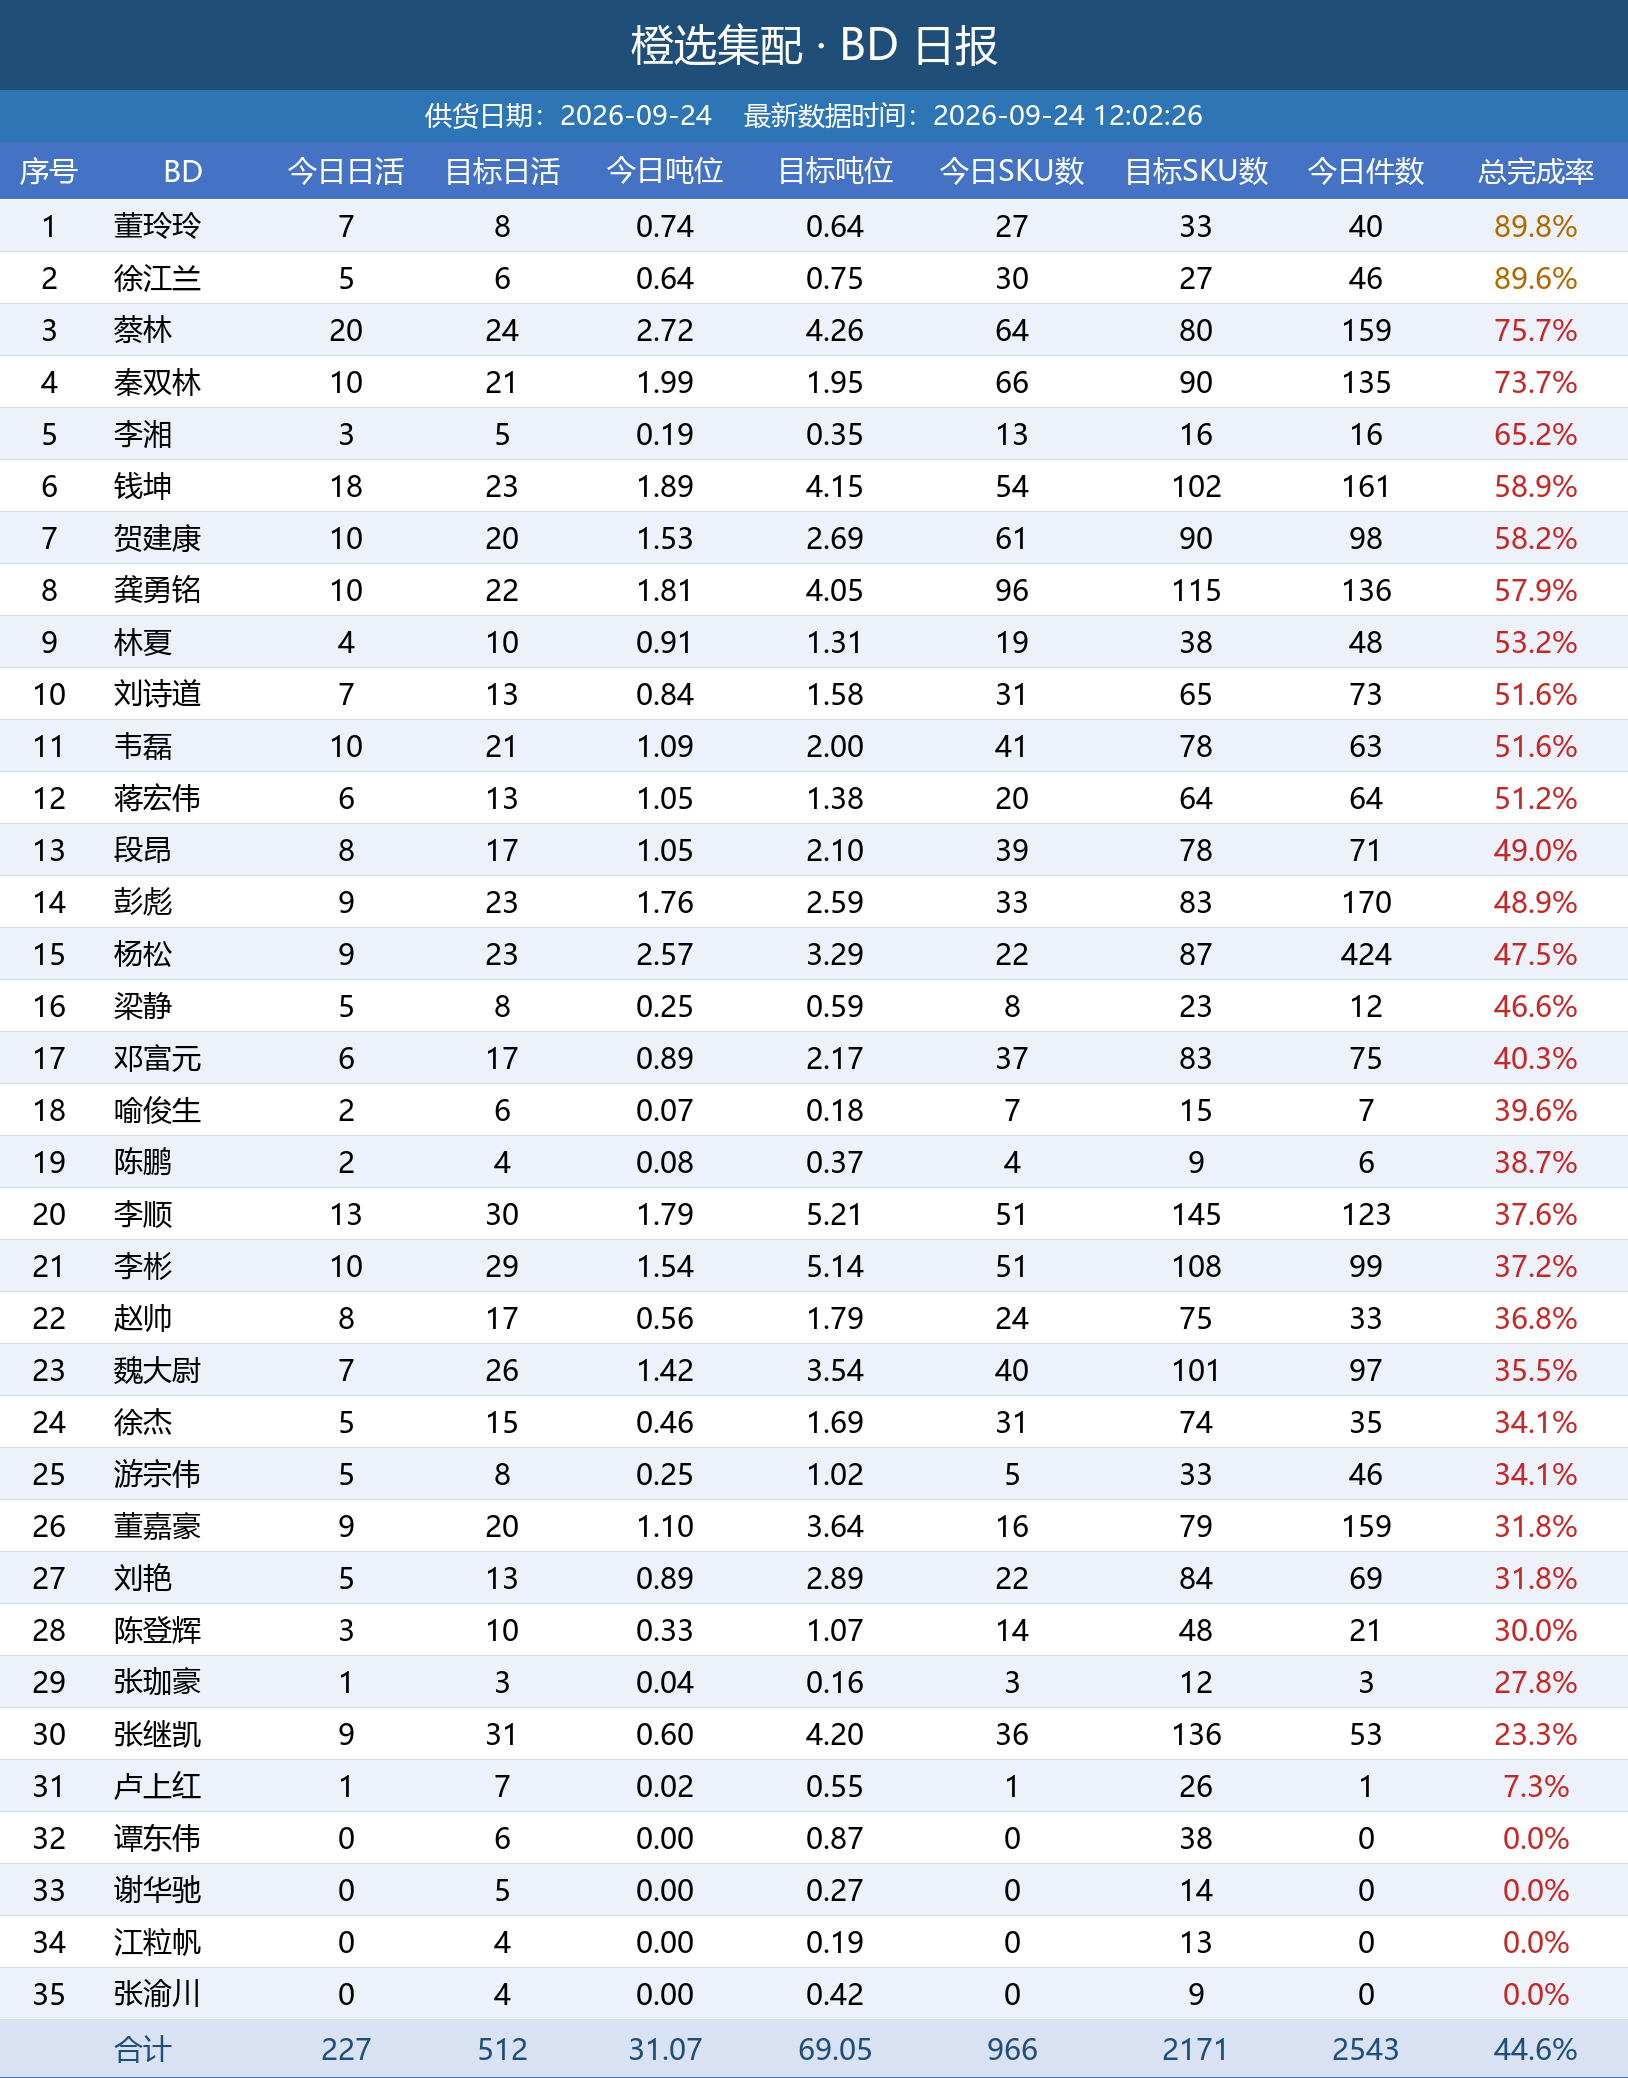
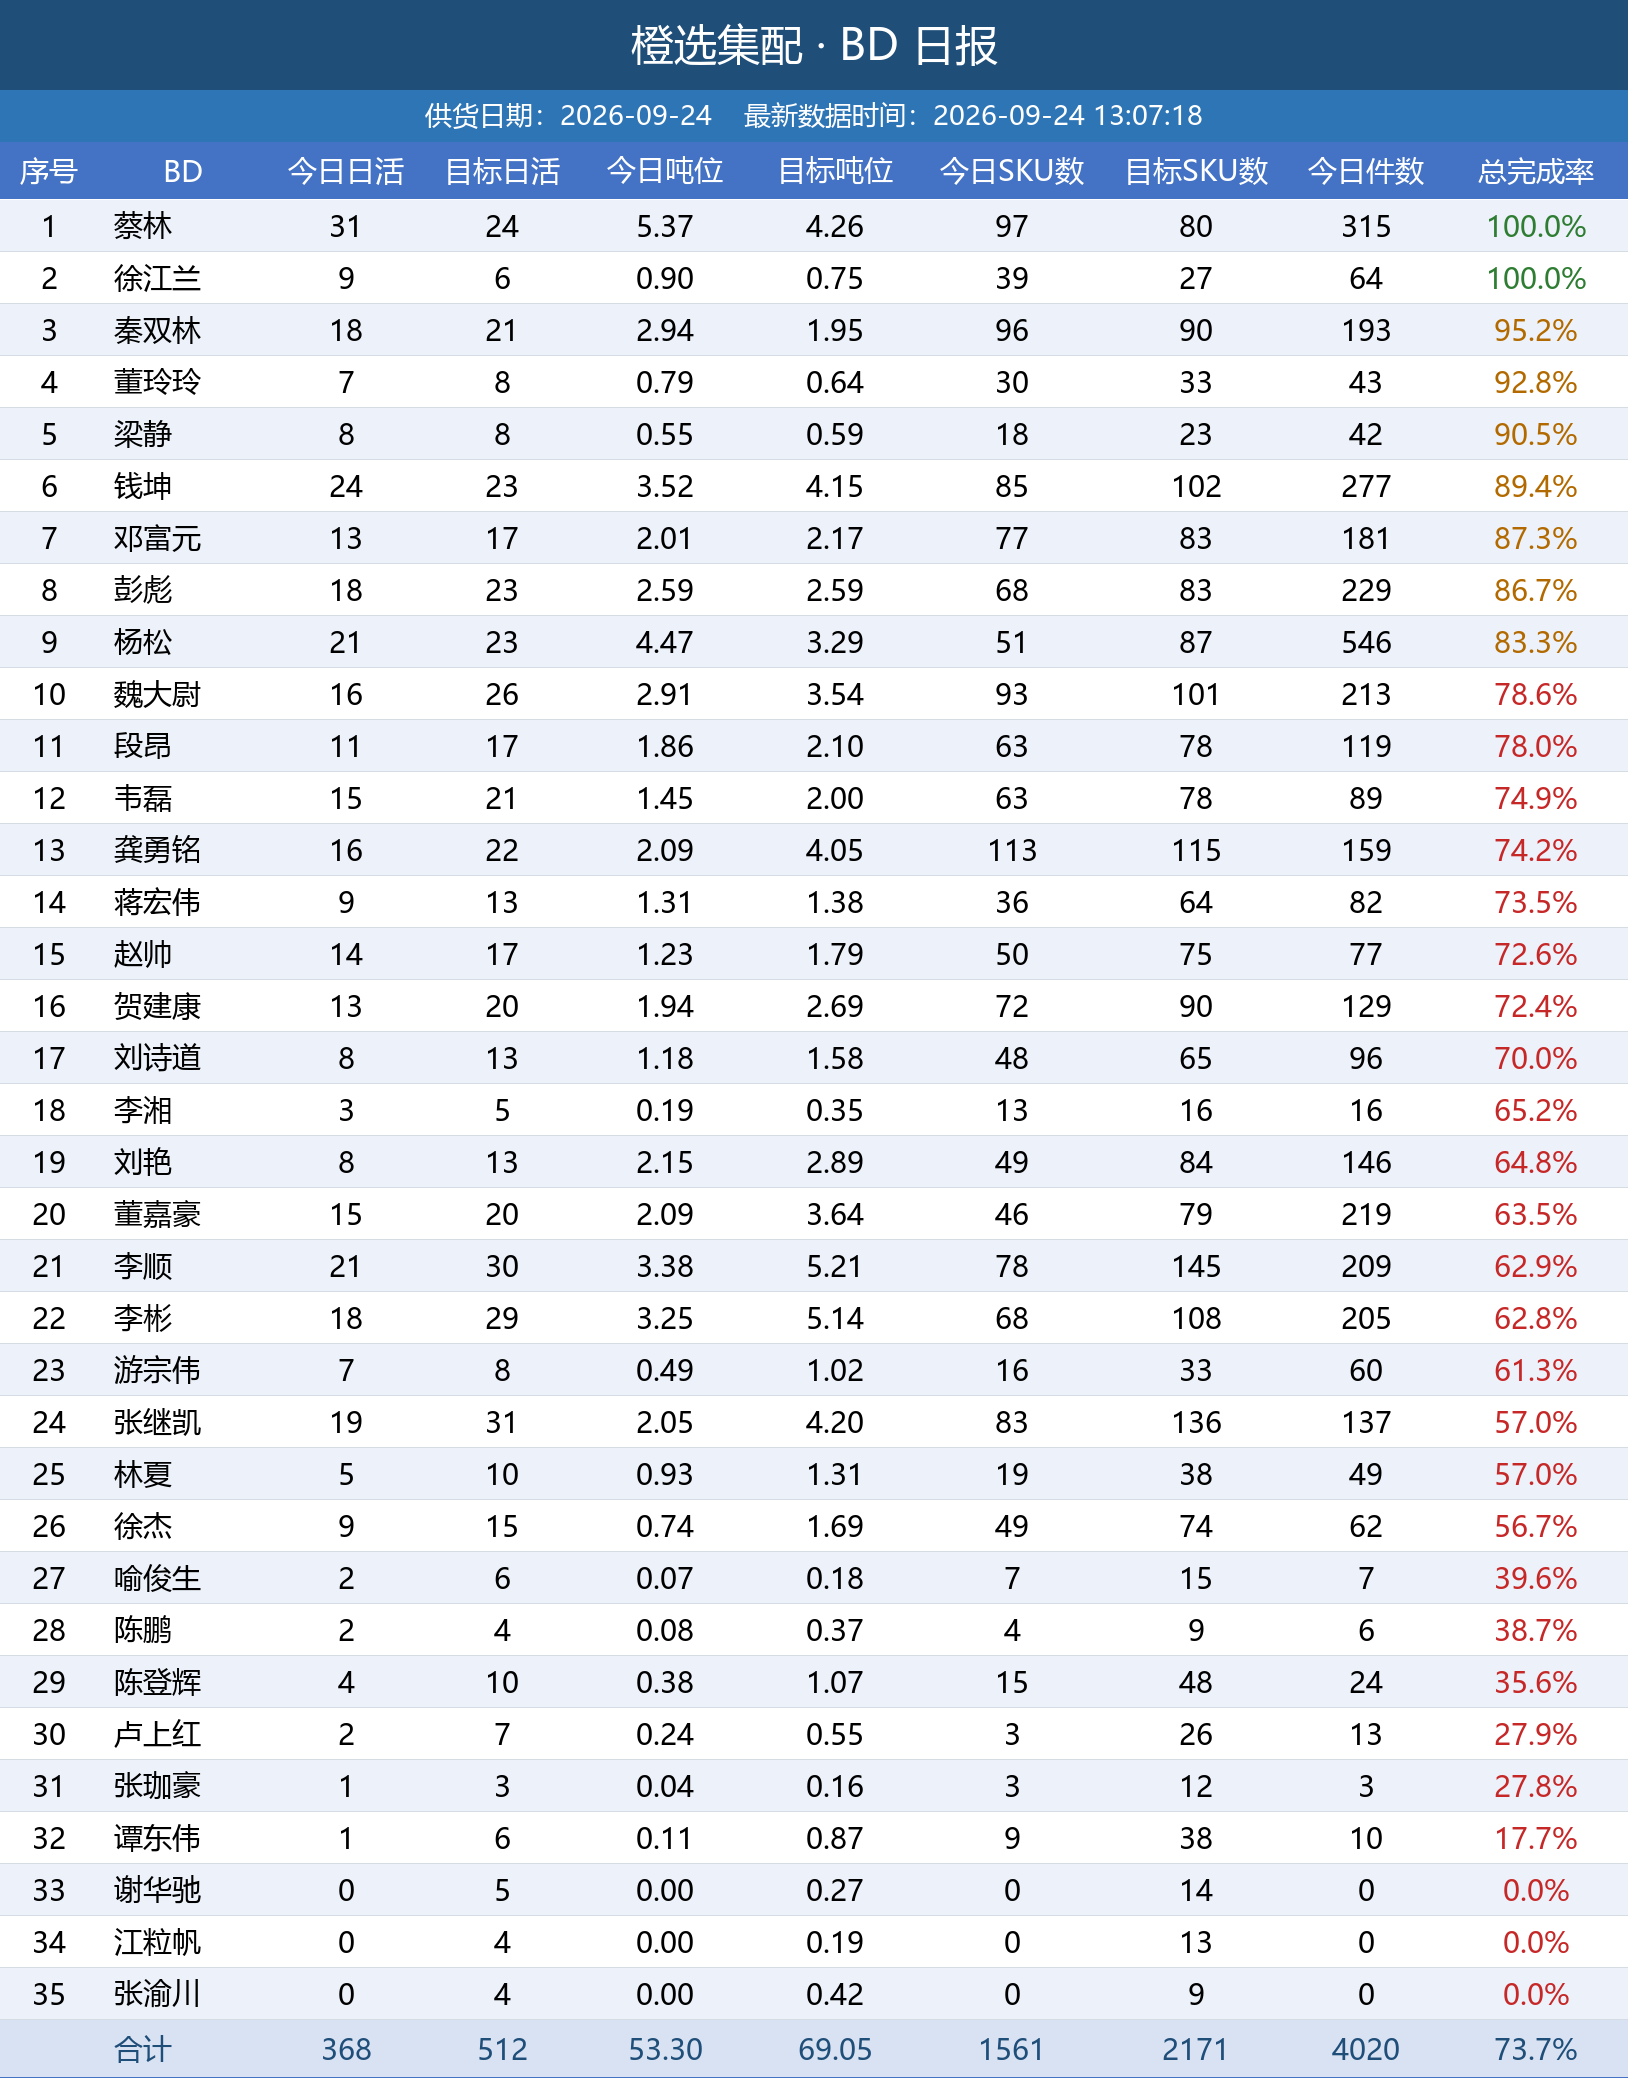
自动更新日报图片

diff --git a/daily_report/index.html b/daily_report/index.html
@@ -11,7 +11,7 @@ img { max-width: 100%; border: 1px solid #e5e5e5; margin-bottom: 24px; display: 
 </style>
 </head>
 <body>
-<h1>橙选集配日报图片（20260924_120408）</h1>
+<h1>橙选集配日报图片（20260924_130934）</h1>
 <img src="bd_latest.png" alt="BD 日报">
 <img src="wh_latest.png" alt="城市仓日报">
 <img src="zs_latest.png" alt="招商日报">
